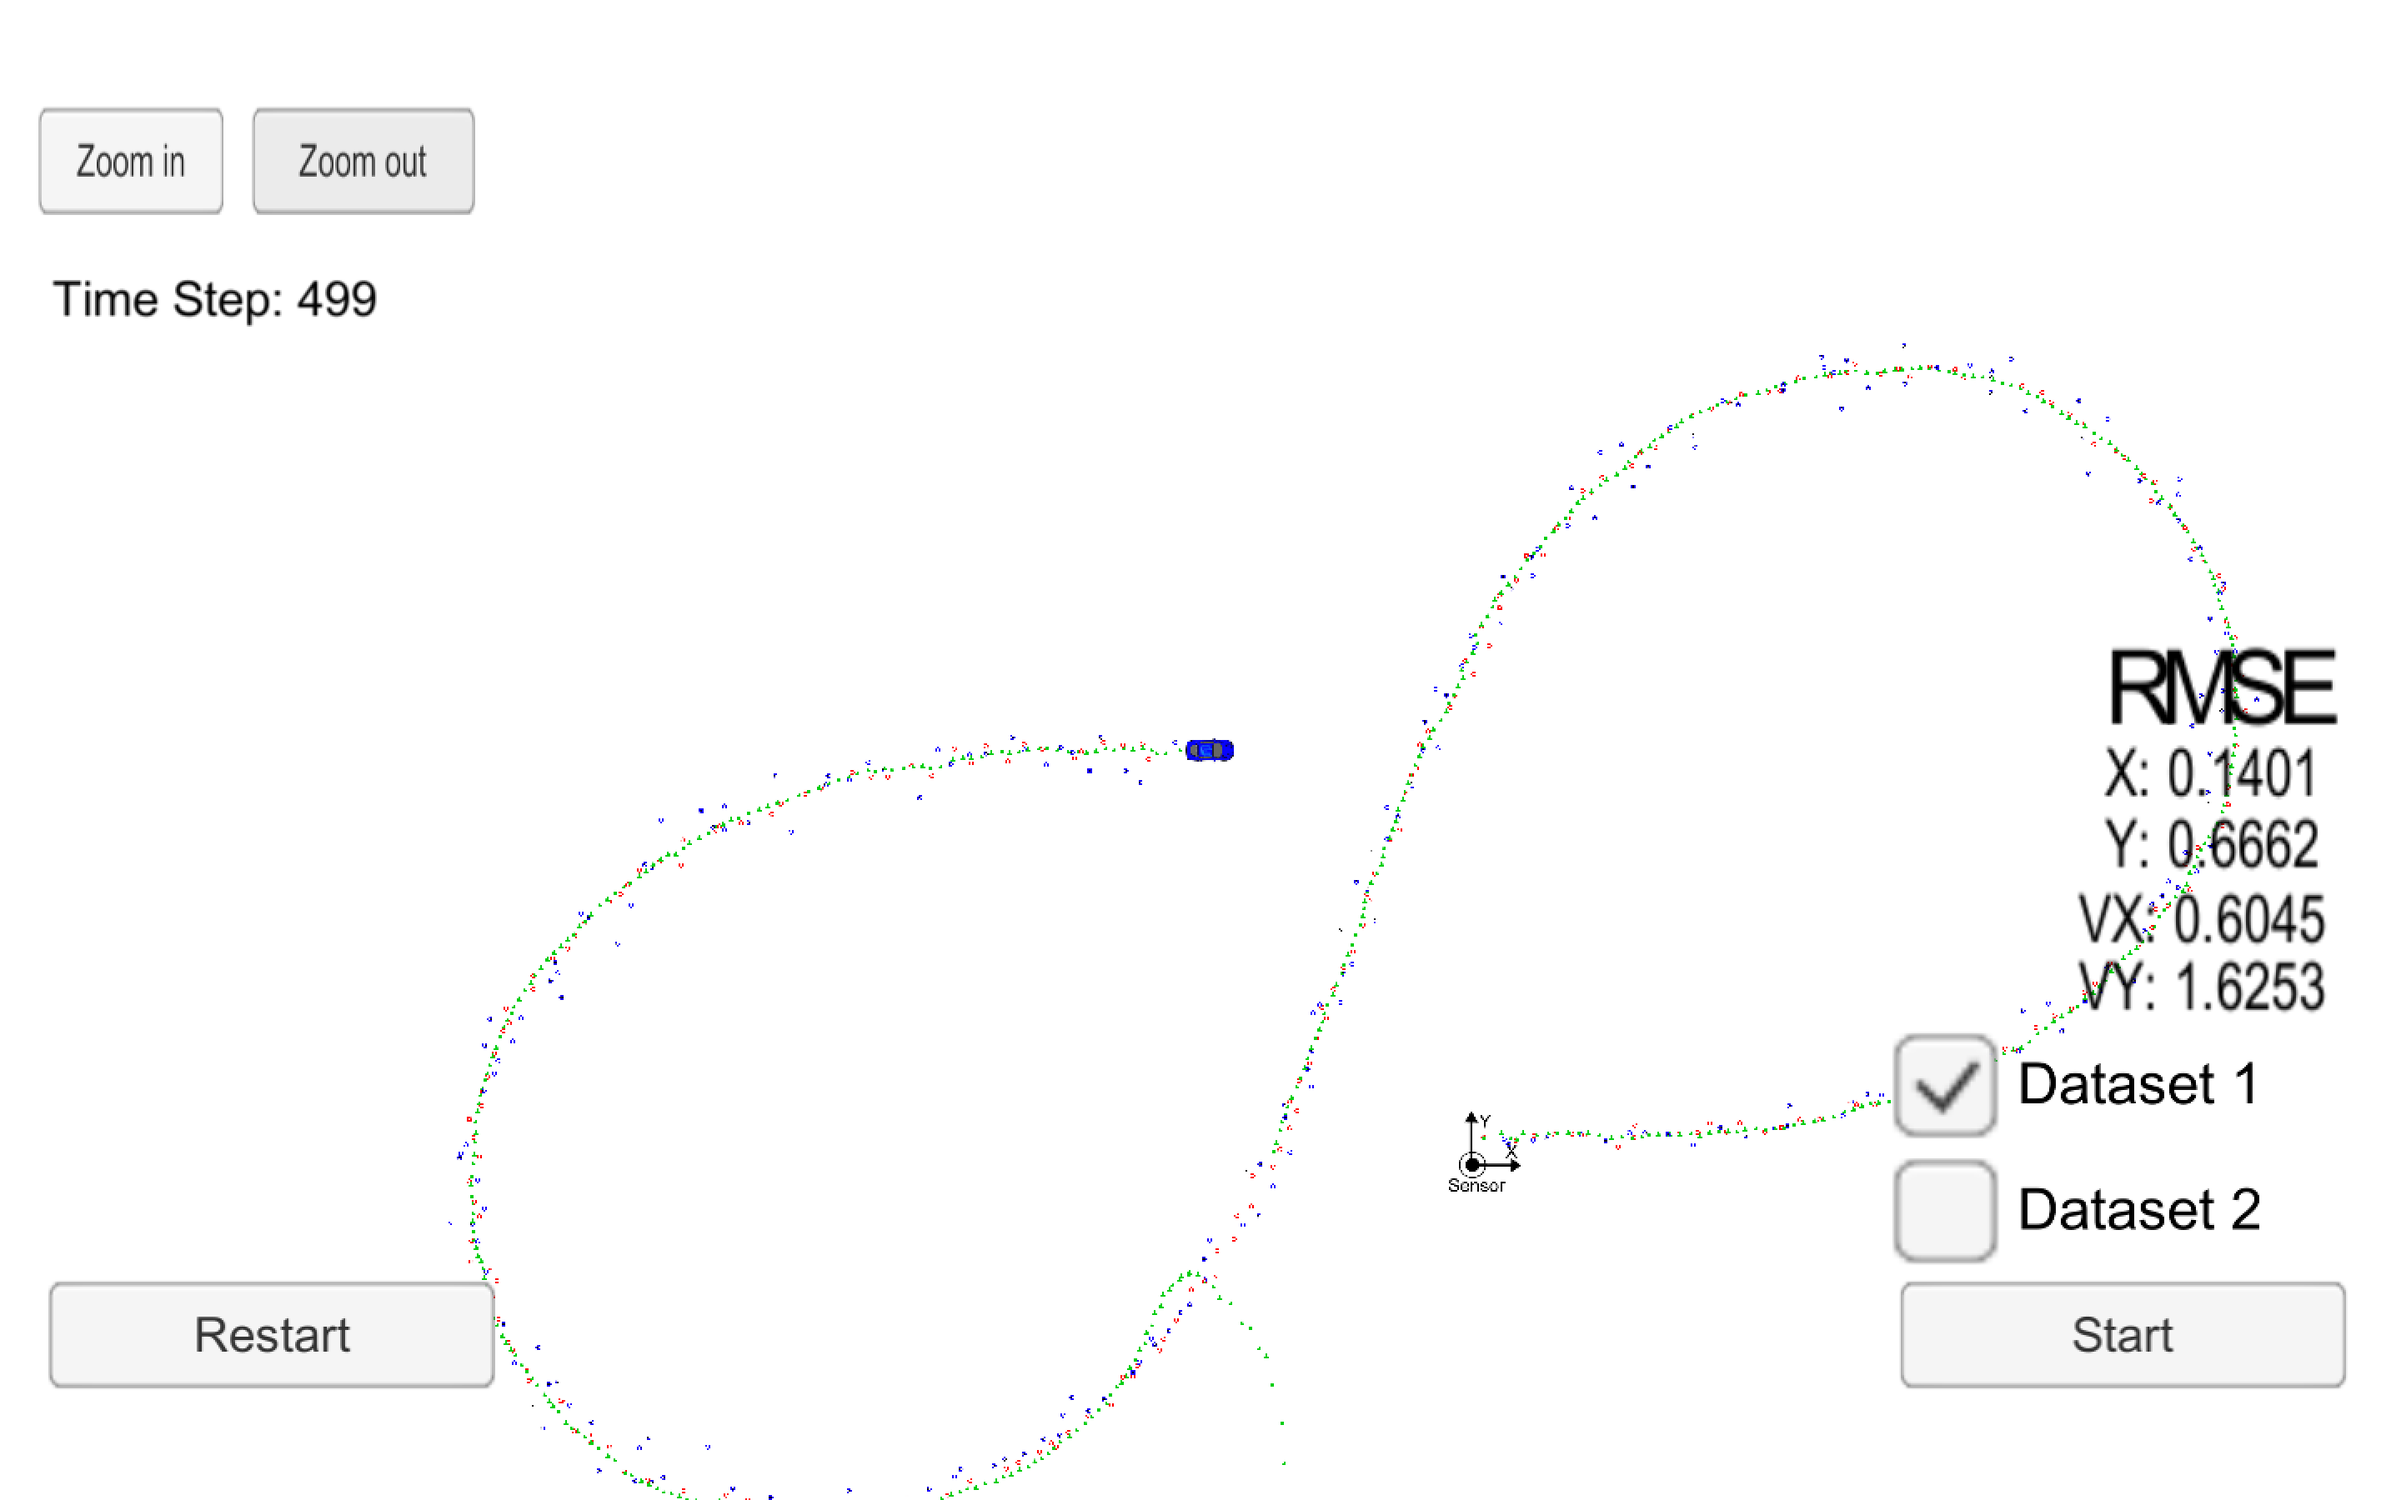
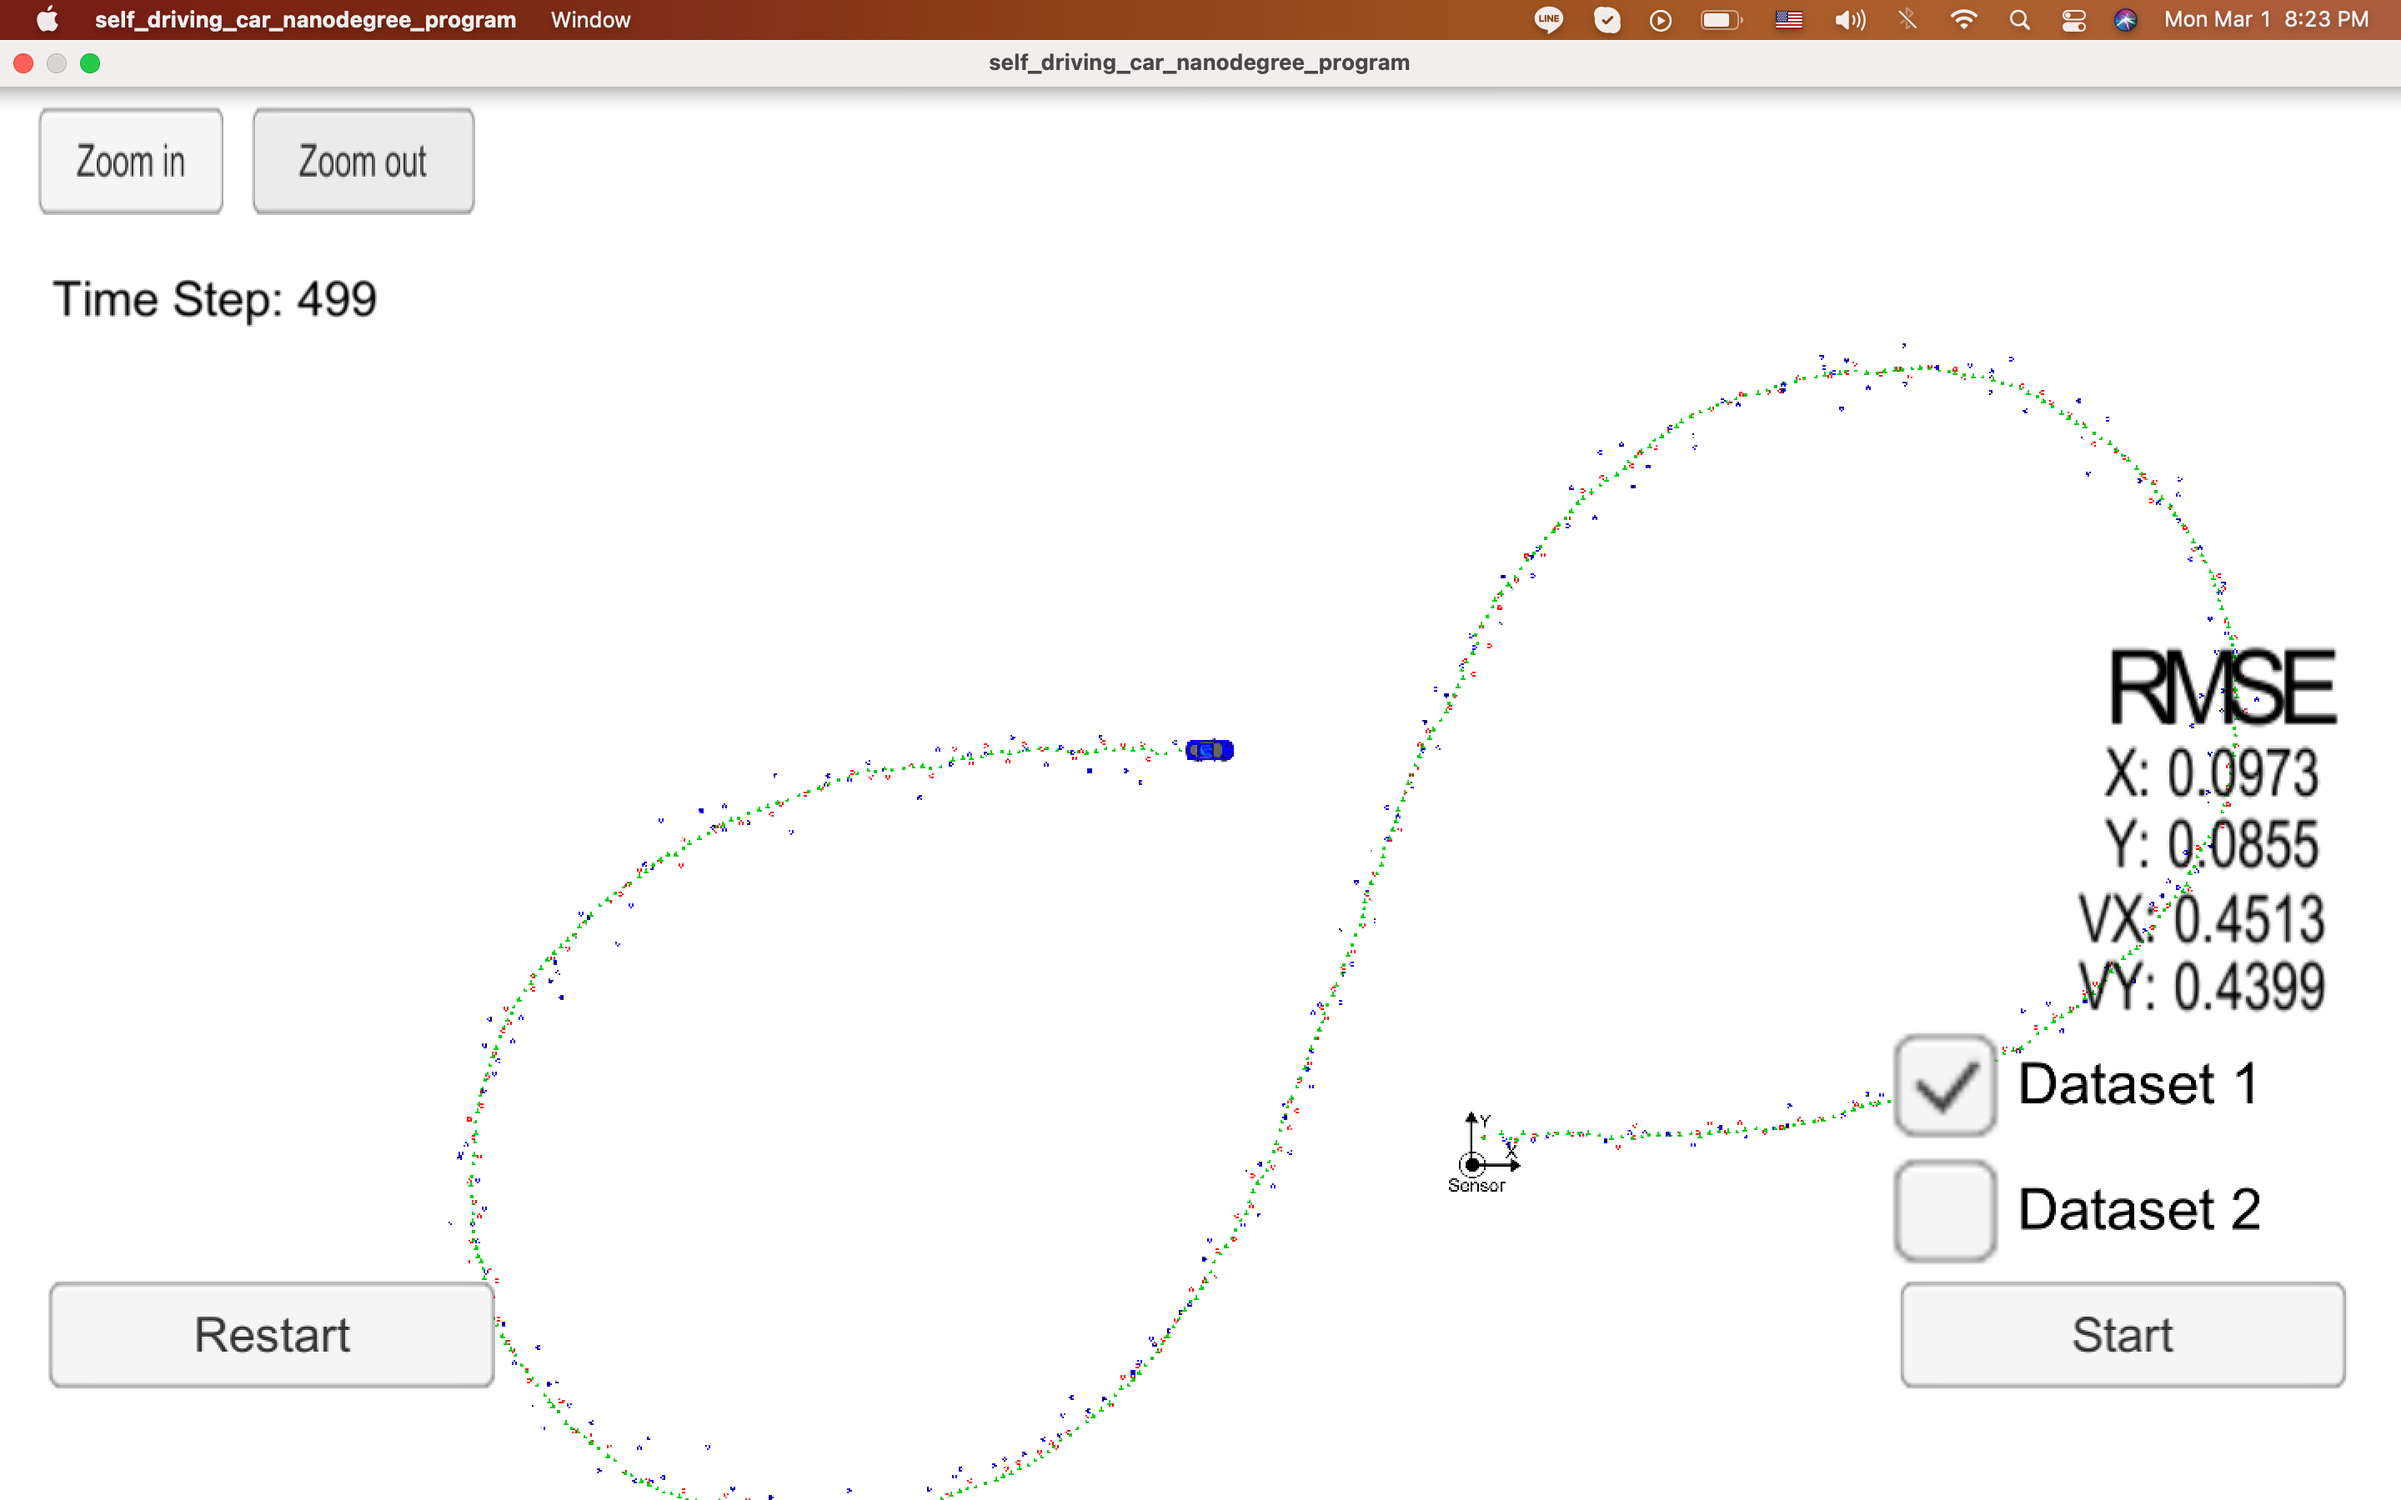
Modified the normalization

Changed region(s): [[0.0, 0.0, 1.0, 0.0933], [0.9062, 0.4978, 0.9688, 0.6844]]

diff --git a/src/kalman_filter.cpp b/src/kalman_filter.cpp
@@ -34,22 +34,20 @@ void KalmanFilter::Update(const VectorXd &z) {
 }
 
 void KalmanFilter::UpdateEKF(const VectorXd &z) {
-  /**
-   * TODO: update the state by using Extended Kalman Filter equations
-   */
+    // update the state by using Extended Kalman Filter equations
     double ro = sqrt(x_(0)*x_(0) + x_(1)*x_(1));
     double phi = atan2(x_(1), x_(0));
     double ro_dot = (x_(0)*x_(2) + x_(1)*x_(3)) / ro;
-    while (phi > M_PI) {
-        phi -= M_PI * 2;
-    }
-    while (phi < -M_PI) {
-        phi += M_PI * 2;
-    }
     VectorXd hx = VectorXd(3);
     hx << ro, phi, ro_dot;
-    
     VectorXd y = z - hx;
+    while (y(1) > M_PI) {
+        y(1) -= M_PI * 2;
+    }
+    while (y(1) < -M_PI) {
+        y(1) += M_PI * 2;
+    }
+    
     UpdateEKFOut(y);
 
 }
